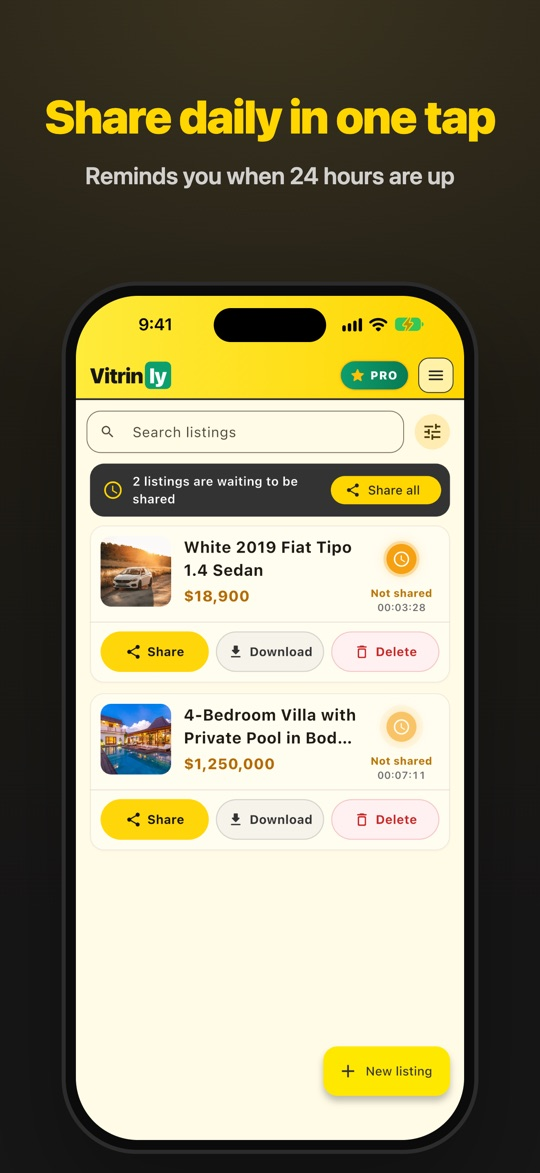
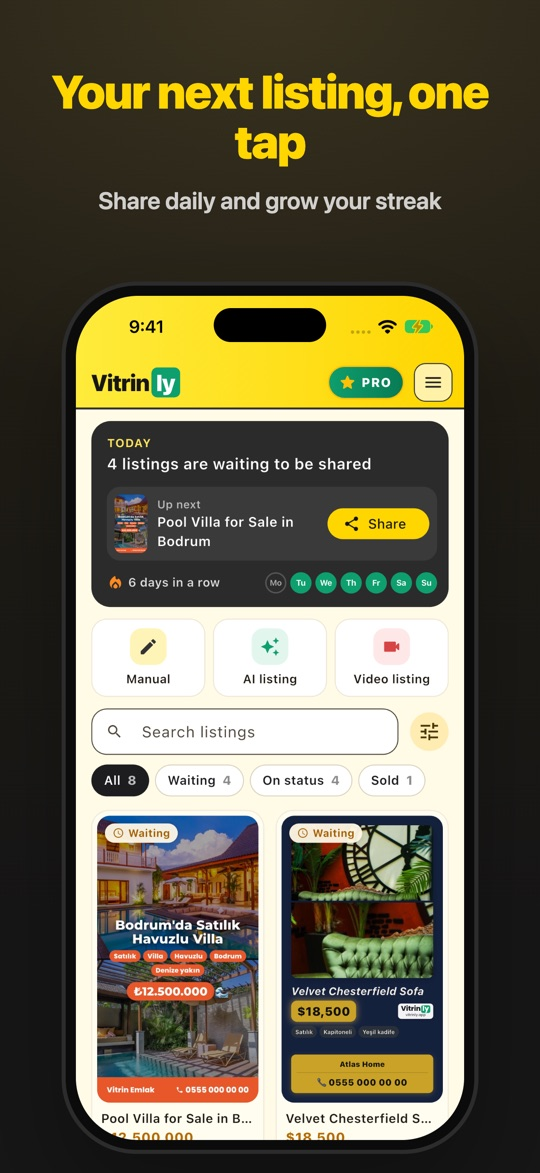
Site: yeni ana sayfa görseli (Sıradaki ilan), önbellek v12

diff --git a/public/index.html b/public/index.html
@@ -7,7 +7,7 @@
 <meta name="description" content="AI designs your listing image, flyer and voiced video from your photos; share them to your status in one tap, every day. For real estate agents, car dealers and shops. No account, no tracking.">
 <meta property="og:title" content="Vitrinly – Your listings on status, every day">
 <meta property="og:description" content="AI-designed listing images, flyers and voiced videos. Share them to your status in one tap.">
-<meta property="og:image" content="https://vitrinly.app/shots/en-2.jpg?v=11">
+<meta property="og:image" content="https://vitrinly.app/shots/en-2.jpg?v=12">
 <meta property="og:type" content="website">
 <meta property="og:url" content="https://vitrinly.app/">
 <link rel="canonical" href="https://vitrinly.app/">
@@ -195,9 +195,9 @@
       <div class="phone" aria-hidden="true">
         <div class="screen">
           <div class="bars"><i></i><i></i><i></i></div>
-          <img class="story on" src="/shots/story-en-1.jpg?v=11" data-l10n-src="/shots/story-{lang}-1.jpg?v=11" alt="">
-          <img class="story" src="/shots/story-en-2.jpg?v=11" data-l10n-src="/shots/story-{lang}-2.jpg?v=11" alt="">
-          <img class="story" src="/shots/story-en-3.jpg?v=11" data-l10n-src="/shots/story-{lang}-3.jpg?v=11" alt="">
+          <img class="story on" src="/shots/story-en-1.jpg?v=12" data-l10n-src="/shots/story-{lang}-1.jpg?v=12" alt="">
+          <img class="story" src="/shots/story-en-2.jpg?v=12" data-l10n-src="/shots/story-{lang}-2.jpg?v=12" alt="">
+          <img class="story" src="/shots/story-en-3.jpg?v=12" data-l10n-src="/shots/story-{lang}-3.jpg?v=12" alt="">
         </div>
       </div>
     </div>
@@ -212,7 +212,7 @@
       </div>
       <div class="phone">
         <div class="screen">
-          <video id="demo" src="/media/sesli-video.mp4?v=11" poster="/ai/arac-ilan.jpg?v=11" muted loop playsinline preload="metadata" aria-label="Yapay zekâ ile hazırlanan sesli video ilan"></video>
+          <video id="demo" src="/media/sesli-video.mp4?v=12" poster="/ai/arac-ilan.jpg?v=12" muted loop playsinline preload="metadata" aria-label="Yapay zekâ ile hazırlanan sesli video ilan"></video>
           <button class="sound" id="sound" type="button" data-i18n="vSound">🔊 Watch with sound</button>
         </div>
       </div>
@@ -234,18 +234,18 @@
       </div>
       <div class="phone">
         <div class="screen">
-          <video src="/ai/gosteri.mp4?v=11" poster="/ai/koltuk-ilan.jpg?v=11" muted loop autoplay playsinline preload="metadata" aria-label="Yapay zekâ ile hazırlanan ilan"></video>
+          <video src="/ai/gosteri.mp4?v=12" poster="/ai/koltuk-ilan.jpg?v=12" muted loop autoplay playsinline preload="metadata" aria-label="Yapay zekâ ile hazırlanan ilan"></video>
         </div>
       </div>
     </div>
     <div class="wrap gallery">
       <div class="samples">
-        <figure><img src="/ai/arac-ilan.jpg?v=11" width="540" height="960" loading="lazy" alt=""><figcaption data-i18n="aiC1">Car · listing image</figcaption></figure>
-        <figure><img src="/ai/arac-brosur.jpg?v=11" width="540" height="960" loading="lazy" alt=""><figcaption data-i18n="aiC2">Car · flyer</figcaption></figure>
-        <figure><img src="/ai/koltuk-ilan.jpg?v=11" width="540" height="960" loading="lazy" alt=""><figcaption data-i18n="aiC3">Sofa · listing image</figcaption></figure>
-        <figure><img src="/ai/koltuk-brosur.jpg?v=11" width="540" height="960" loading="lazy" alt=""><figcaption data-i18n="aiC4">Sofa · flyer</figcaption></figure>
-        <figure><img src="/ai/villa-ilan.jpg?v=11" width="540" height="960" loading="lazy" alt=""><figcaption data-i18n="aiC5">Villa · from a video</figcaption></figure>
-        <figure><img src="/ai/villa-brosur.jpg?v=11" width="540" height="960" loading="lazy" alt=""><figcaption data-i18n="aiC6">Villa · flyer</figcaption></figure>
+        <figure><img src="/ai/arac-ilan.jpg?v=12" width="540" height="960" loading="lazy" alt=""><figcaption data-i18n="aiC1">Car · listing image</figcaption></figure>
+        <figure><img src="/ai/arac-brosur.jpg?v=12" width="540" height="960" loading="lazy" alt=""><figcaption data-i18n="aiC2">Car · flyer</figcaption></figure>
+        <figure><img src="/ai/koltuk-ilan.jpg?v=12" width="540" height="960" loading="lazy" alt=""><figcaption data-i18n="aiC3">Sofa · listing image</figcaption></figure>
+        <figure><img src="/ai/koltuk-brosur.jpg?v=12" width="540" height="960" loading="lazy" alt=""><figcaption data-i18n="aiC4">Sofa · flyer</figcaption></figure>
+        <figure><img src="/ai/villa-ilan.jpg?v=12" width="540" height="960" loading="lazy" alt=""><figcaption data-i18n="aiC5">Villa · from a video</figcaption></figure>
+        <figure><img src="/ai/villa-brosur.jpg?v=12" width="540" height="960" loading="lazy" alt=""><figcaption data-i18n="aiC6">Villa · flyer</figcaption></figure>
       </div>
     </div>
   </section>
@@ -270,12 +270,12 @@
       <h2 data-i18n="shTitle">See it in action</h2>
       <p class="sub" data-i18n="shSub">Real-estate, car and shop listings shared as daily statuses.</p>
       <div class="shots">
-        <img src="/shots/en-1.jpg?v=11" data-l10n-src="/shots/{lang}-1.jpg?v=11" data-i18n-alt="sh1" width="540" height="1173" loading="lazy" alt="Listings made by AI">
-        <img src="/shots/en-2.jpg?v=11" data-l10n-src="/shots/{lang}-2.jpg?v=11" data-i18n-alt="sh2" width="540" height="1173" loading="lazy" alt="Eye-catching listing images">
-        <img src="/shots/en-3.jpg?v=11" data-l10n-src="/shots/{lang}-3.jpg?v=11" data-i18n-alt="sh3" width="540" height="1173" loading="lazy" alt="Print-style flyers">
-        <img src="/shots/en-4.jpg?v=11" data-l10n-src="/shots/{lang}-4.jpg?v=11" data-i18n-alt="sh4" width="540" height="1173" loading="lazy" alt="Voiced video with subtitles">
-        <img src="/shots/en-5.jpg?v=11" data-l10n-src="/shots/{lang}-5.jpg?v=11" data-i18n-alt="sh5" width="540" height="1173" loading="lazy" alt="Pick a voice or use your own">
-        <img src="/shots/en-6.jpg?v=11" data-l10n-src="/shots/{lang}-6.jpg?v=11" data-i18n-alt="sh6" width="540" height="1173" loading="lazy" alt="Share daily in one tap">
+        <img src="/shots/en-1.jpg?v=12" data-l10n-src="/shots/{lang}-1.jpg?v=12" data-i18n-alt="sh1" width="540" height="1173" loading="lazy" alt="Listings made by AI">
+        <img src="/shots/en-2.jpg?v=12" data-l10n-src="/shots/{lang}-2.jpg?v=12" data-i18n-alt="sh2" width="540" height="1173" loading="lazy" alt="Eye-catching listing images">
+        <img src="/shots/en-3.jpg?v=12" data-l10n-src="/shots/{lang}-3.jpg?v=12" data-i18n-alt="sh3" width="540" height="1173" loading="lazy" alt="Print-style flyers">
+        <img src="/shots/en-4.jpg?v=12" data-l10n-src="/shots/{lang}-4.jpg?v=12" data-i18n-alt="sh4" width="540" height="1173" loading="lazy" alt="Voiced video with subtitles">
+        <img src="/shots/en-5.jpg?v=12" data-l10n-src="/shots/{lang}-5.jpg?v=12" data-i18n-alt="sh5" width="540" height="1173" loading="lazy" alt="Pick a voice or use your own">
+        <img src="/shots/en-6.jpg?v=12" data-l10n-src="/shots/{lang}-6.jpg?v=12" data-i18n-alt="sh6" width="540" height="1173" loading="lazy" alt="Your next listing, one tap">
       </div>
     </div>
   </section>
@@ -387,7 +387,7 @@
     f4t: "Temalar ve markan", f4p: "Beş tema, kendi renklerin, logon ve işletme adın: buzlu cam etiket, yıldızlar ya da kayan yazı olarak.",
     f5t: "Yapay zekâ tasarımı ve broşür", f5p: "Claude her ilanı kendi fotoğraflarınla tasarlar: afiş ya da gösteri, broşür ve sesli video.",
     f6t: "Gizlilik esas", f6p: "Hesap yok, reklam yok, takip yok. Fotoğraflar yalnızca yapay zekâyı kullandığında gider ve saklanmaz.",
-    sh1: "Yapay zekâ ile ilan hazırla", sh2: "Göz alıcı ilan görseli", sh3: "Matbaa tadında broşür", sh4: "Sesli, alt yazılı video", sh5: "Sesi seç ya da kendin seslendir", sh6: "Her gün tek dokunuşla paylaş",
+    sh1: "Yapay zekâ ile ilan hazırla", sh2: "Göz alıcı ilan görseli", sh3: "Matbaa tadında broşür", sh4: "Sesli, alt yazılı video", sh5: "Sesi seç ya da kendin seslendir", sh6: "Sıradaki ilanın tek dokunuşta",
     shTitle: "Uygulamadan görüntüler", shSub: "Emlak, galeri ve dükkân ilanları günlük durum olarak.",
     hTitle: "Nasıl çalışır", hSub: "Üç adım. İlkini yalnızca bir kez yaparsın.",
     s1t: "İlanını ekle", s1p: "Fotoğraf ya da video, fiyat, etiketler ve kısa bir açıklama.",
